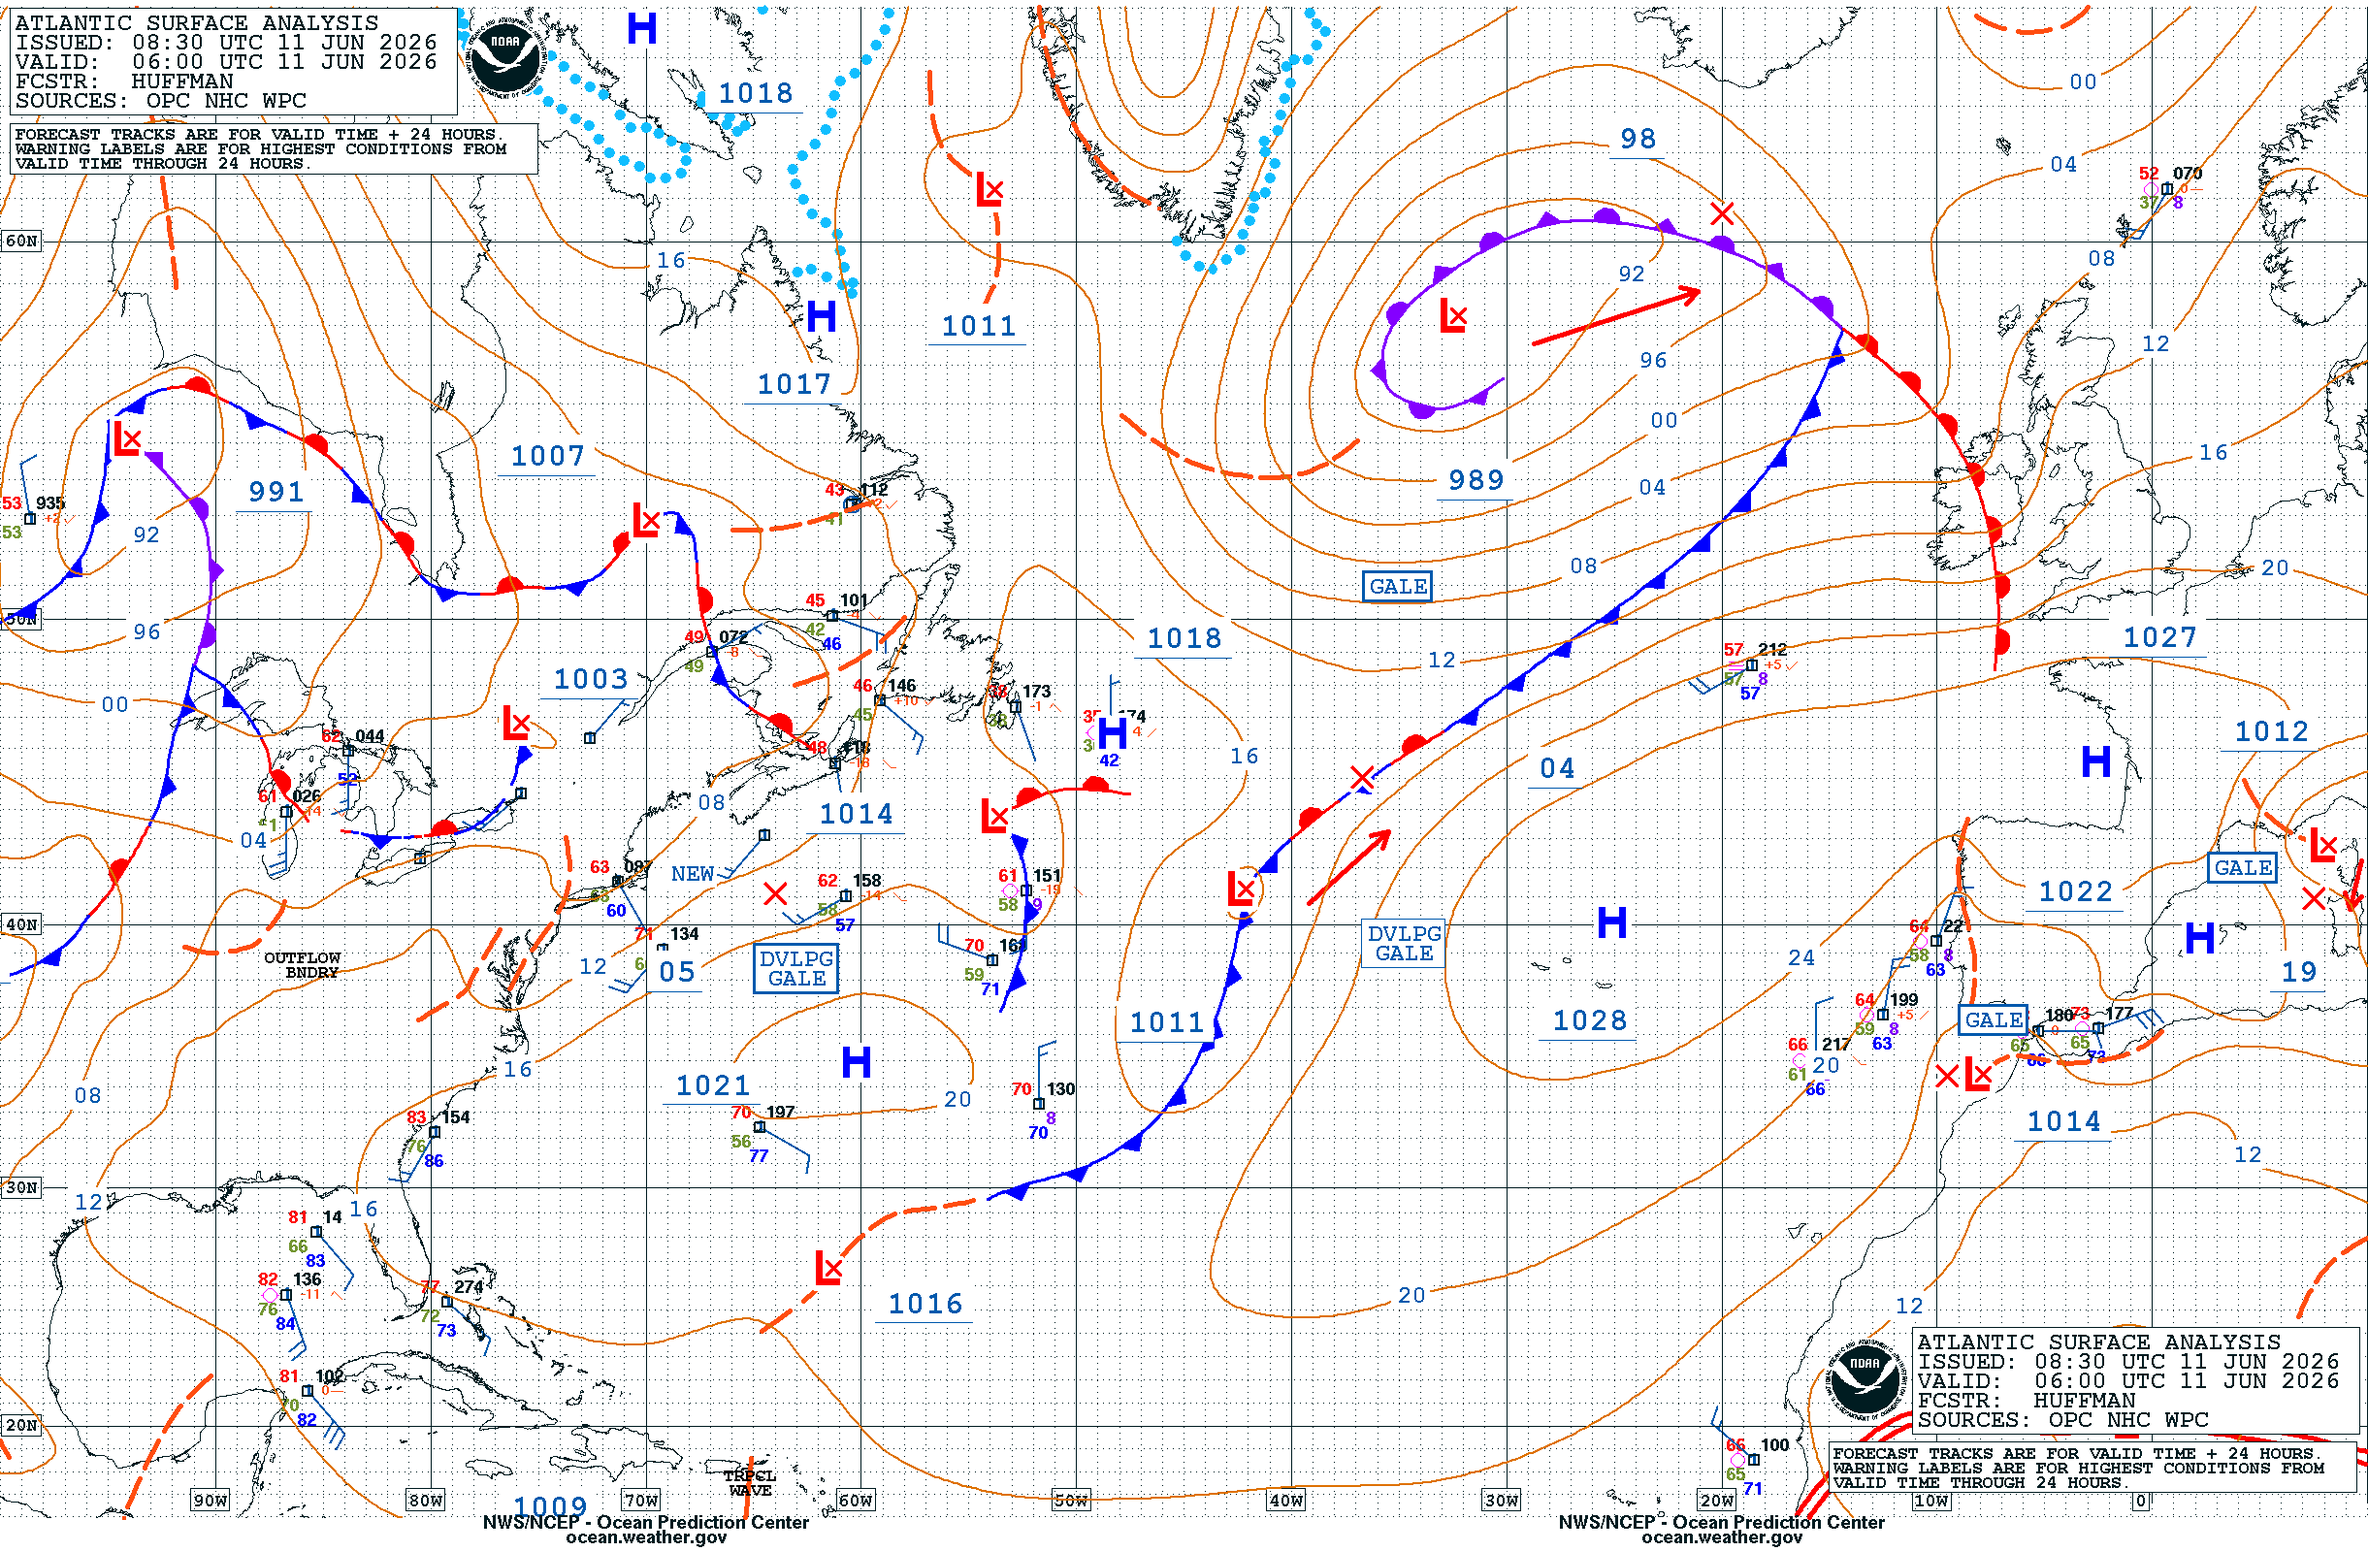
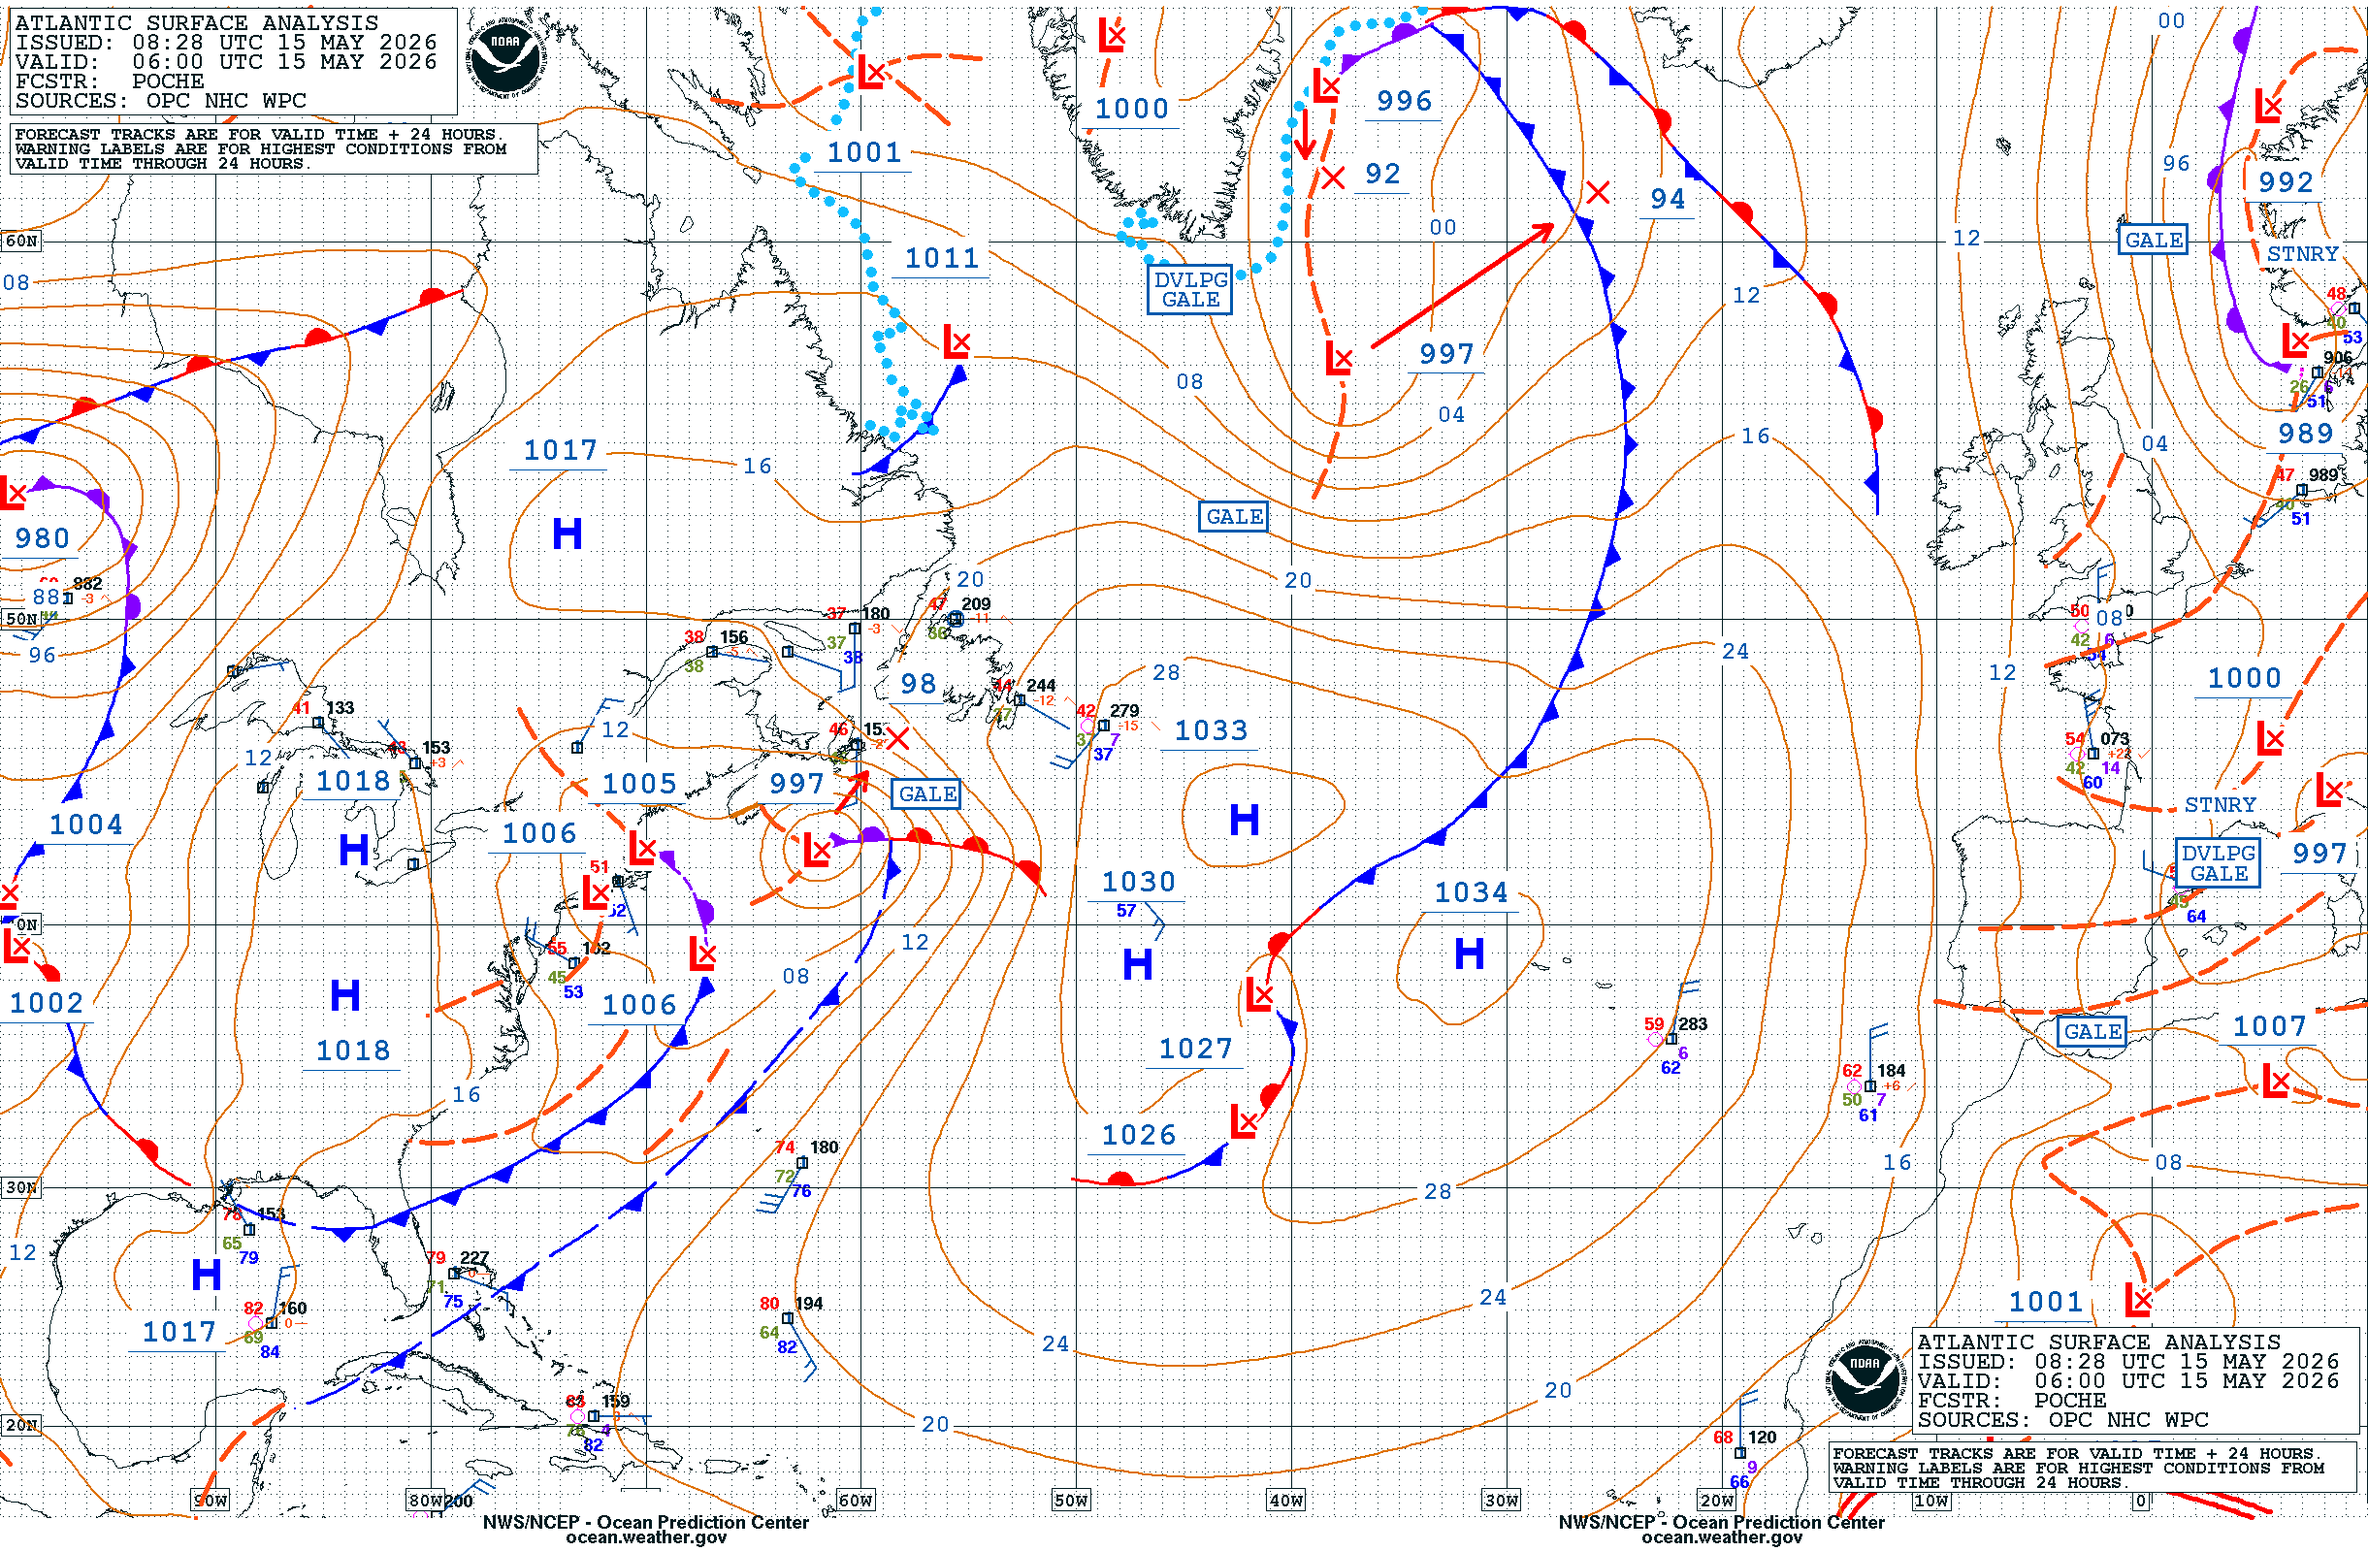
Change .gitignore

diff --git a/architeuthis/common.py b/architeuthis/common.py
@@ -6,7 +6,7 @@ Created on Thu Jan 15 12:44:25 2026
 """
 
 import os
-import logging
+
 from abc import ABC, abstractmethod
 
 import architeuthis.numpy as np
@@ -18,14 +18,6 @@ from typing import Union, Sequence, Literal
 from pandas import Timestamp
 from datetime import datetime
 
-logging.basicConfig(
-    level=logging.INFO,
-    format="%(asctime)s  %(levelname)-8s  %(message)s",
-    datefmt="%Y-%m-%d %H:%M:%S",
-    force=True,
-)
-log = logging.getLogger(__name__)
-
 Datetime = Union[datetime, Timestamp, str]
 
 _USER = os.path.expanduser("~")
@@ -35,38 +27,14 @@ _HOME = os.path.join(
     _USER,
     "data",
 )
+_CMEMS_USER = "jricheux1"
+_CMEMS_PWD = "..."
 
-def _get_env_var(key):
-    if key in os.environ:
-        return os.environ[key]
-    else:
-        return None
-    
+_EUMDAC_USER = "..."
+_EUMDAC_PWD = "..."
+
 _CDS_URL = "https://cds.climate.copernicus.eu/api"
-_CDS_API_KEY = _get_env_var("CDS_API_KEY")
-if _CDS_API_KEY is None:
-    log.info("CDS API key was not specified. Copernicus atmosphere data will be unavailable.")
-
-_CMEMS_USER = _get_env_var("CMEMS_USER")
-_CMEMS_PWD = _get_env_var("CMEMS_PWD")
-if (_CMEMS_USER is None) or (_CMEMS_PWD is None):
-    log.info("CMEMS credentials are incomplete. Copernicus marine service data will be unavailable.")
-
-_EUMDAC_USER = _get_env_var("EUMDAC_USER")
-_EUMDAC_PWD = _get_env_var("EUMDAC_PWD")
-if (_EUMDAC_USER is None) or (_EUMDAC_PWD is None):
-    log.info("EUMDAC credentials are incomplete. Corresponding satellite data will be unavailable.")
-
-_EUMDAC_CREDENTIALS = (_EUMDAC_USER, _EUMDAC_PWD)
-
-# _CMEMS_USER = "jricheux1"
-# _CMEMS_PWD = "..."
-
-# _EUMDAC_USER = "..."
-# _EUMDAC_PWD = "..."
-
-# _CDS_URL = "https://cds.climate.copernicus.eu/api"
-# _CDS_API_KEY = "..."
+_CDS_KEY = "..."
 
 file_path = os.path.join(
     _USER,
@@ -75,7 +43,7 @@ file_path = os.path.join(
 
 if not os.path.exists(file_path):
     content = f"""url: {_CDS_URL}
-    key: {_CDS_API_KEY}
+    key: {_CDS_KEY}
     """
     try:
         with open(file_path, "w", encoding="utf-8") as f:
@@ -83,6 +51,9 @@ if not os.path.exists(file_path):
         print(f"Successfully created {file_path}")
     except OSError as e:
         print(f"Error: Could not write to {file_path}. {e}")
+
+
+_EUMDAC_CREDENTIALS = (_EUMDAC_USER, _EUMDAC_PWD)
 
 _TOPOGRAPHY_URL = "https://data.mondaic.com/topography-data/topography_earth2014_egm2008_lmax_2048.nc"
 

diff --git a/architeuthis/ui.py b/architeuthis/ui.py
@@ -183,7 +183,6 @@ steps_00_12 = list(range(0, 145, 3)) + list(range(150, 361, 6))
 # mirror_end = pd.Timestamp('2026-01-31 23:00:00')
 
 recent = pd.Timestamp("now").floor("1d")
-# recent = pd.Timestamp('2026-05-30 00:00')
 
 ATMOS = {}
 
@@ -237,7 +236,6 @@ if PRODUCT == "oper":
 
 
 recent = pd.Timestamp("now").floor("1d")
-# recent = pd.Timestamp('2026-05-30 00:00')
 
 WAVE = {}
 

diff --git a/architeuthis/core.py b/architeuthis/core.py
@@ -632,8 +632,6 @@ class RoutingAnalysis(ArchiteuthisAnalysis):
             "mwa" : sol(mwa),
             "z" : sol(z),
             "avg_bhp" : sol(avg_bhp),
-            "hotel_load" : sol(hotel_load),
-            "sfc" : sol(sfc),
             "consumption" : sol(consumption),
             "max_bhp" : sol(max_bhp),
             "sails_contribution" : sol(sc),
